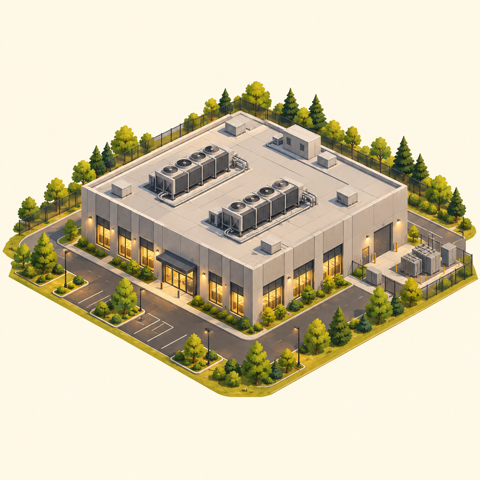
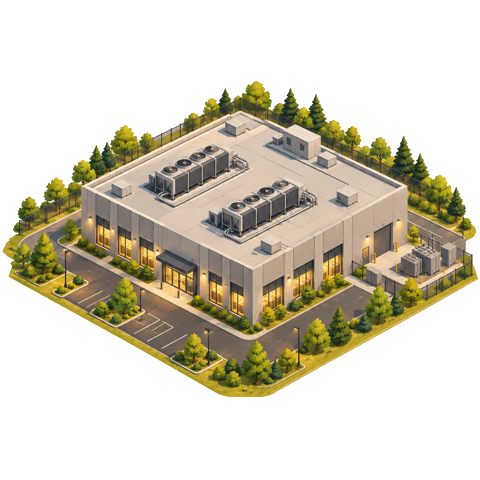
Unify campus ground and open decisions from scene objects

diff --git a/src/ui/board/MapPopover.tsx b/src/ui/board/MapPopover.tsx
@@ -1,7 +1,8 @@
-import { useEffect, useRef } from 'react';
+import { useEffect, useRef, useState } from 'react';
 
 import { formatMonth } from '../../engine/format';
 import { checkAction, useStore } from '../store';
+import { buildRows } from '../components/TracksPanel';
 import { Term } from '../Term';
 import { boardActionsForObject, boardObjectTagline, laydownOrders } from './actions';
 
@@ -24,6 +25,7 @@ interface MapPopoverProps {
 }
 
 const OBJECT_TITLES: Record<string, string> = {
+  road: 'Land & access road',
   substation: 'Substation',
   pond: 'Pond',
   siteOffice: 'Site office',
@@ -32,6 +34,7 @@ const OBJECT_TITLES: Record<string, string> = {
 };
 
 export function MapPopover({ objectId, left, top, onClose }: MapPopoverProps) {
+  const [officeView, setOfficeView] = useState<'permits' | 'money' | 'capital'>('permits');
   const state = useStore((s) => s.state);
   const content = useStore((s) => s.content);
   const plan = useStore((s) => s.plan);
@@ -76,7 +79,9 @@ export function MapPopover({ objectId, left, top, onClose }: MapPopoverProps) {
 
   const hall = state.halls.find((h) => h.id === objectId);
   const title = hall ? `${hall.id} (${hall.mwIT} MW)` : (OBJECT_TITLES[objectId] ?? objectId);
-  const rows = boardActionsForObject(objectId, state, content);
+  const rows = objectId === 'road' ? buildRows('land', state, content, null)
+    : objectId === 'siteOffice' && officeView !== 'permits' ? buildRows(officeView, state, content, null)
+    : boardActionsForObject(objectId, state, content);
   const tagline = boardObjectTagline(objectId, state);
   const orders = objectId === 'laydownYard' ? laydownOrders(state) : [];
 
@@ -106,8 +111,8 @@ export function MapPopover({ objectId, left, top, onClose }: MapPopoverProps) {
       >
         <div style={{ display: 'flex', justifyContent: 'space-between', alignItems: 'baseline', marginBottom: 4 }}>
           <strong>{title}</strong>
-          <button onClick={onClose} aria-label="Close" style={{ border: 'none', background: 'none', cursor: 'pointer', fontSize: '0.8rem' }}>
-            x
+          <button onClick={onClose} aria-label="Close" style={{ border: '1px solid #b9ab8e', borderRadius: 4, background: '#f4ead5', padding: '3px 8px', cursor: 'pointer', fontSize: '0.8rem' }}>
+            Close
           </button>
         </div>
         {showTeaching && (
@@ -118,6 +123,23 @@ export function MapPopover({ objectId, left, top, onClose }: MapPopoverProps) {
           </div>
         )}
 
+        {objectId === 'laydownYard' && (() => {
+          const row = buildRows('construction', state, content, null).find((r) => r.key === 'importCrews')!;
+          const check = checkAction(state, content, plan, row.action);
+          return <button data-testid="popover-action" disabled={!check.ok} title={check.ok ? row.help : check.reason} onClick={() => { queueAction(row.action); onClose(); }} style={{ width: '100%', padding: 6, marginBottom: 8 }}>{row.label} ({row.ap} AP, {row.cashLabel})</button>;
+        })()}
+        {objectId === 'siteOffice' && (
+          <div style={{ display: 'flex', gap: 4, marginBottom: 8, flexWrap: 'wrap' }}>
+            <button aria-pressed={officeView === 'permits'} onClick={() => setOfficeView('permits')}>Permits & people</button>
+            <button aria-pressed={officeView === 'money'} onClick={() => setOfficeView('money')}>Insurance & lender</button>
+            <button aria-pressed={officeView === 'capital'} onClick={() => setOfficeView('capital')}>Raise capital</button>
+          </div>
+        )}
+        {objectId === 'powerPlants' && (
+          <div style={{ marginBottom: 8 }}>
+            {state.power.plants.map((p) => <p key={p.id} style={{ margin: '4px 0' }}>Plant {p.id}: {p.onlineMonth !== null && p.onlineMonth <= state.month ? `online, ${p.mwGrid} MW` : p.plannedOnlineMonth !== null ? `${p.slipped ? 'delayed' : 'building'}, online ${formatMonth(p.onlineMonth ?? p.plannedOnlineMonth)}, ${p.mwGrid} MW` : 'waiting for the power docket to pass'}</p>)}
+          </div>
+        )}
         {objectId === 'laydownYard' ? (
           <>
             {/* Phase 7 (scarcity pack): the yard is a real constraint now - show the load. */}

diff --git a/src/ui/components/MapGrid.tsx b/src/ui/components/MapGrid.tsx
@@ -1,3 +1,4 @@
+import campusGroundImg from '../../assets/art/campus-ground.jpg';
 import { useEffect, useRef, useState, type CSSProperties, type KeyboardEvent } from 'react';
 
 import { formatMonth } from '../../engine/format';
@@ -32,7 +33,7 @@ function ArtLayer({ img, dimmed }: { img?: string; dimmed?: boolean }) {
         inset: 0,
         width: '100%',
         height: '100%',
-        objectFit: 'cover',
+        objectFit: 'contain',
         borderRadius: 4,
         pointerEvents: 'none',
         opacity: dimmed ? 0.4 : 1,
@@ -231,6 +232,7 @@ export function MapGrid() {
     <div
       ref={containerRef}
       data-testid="map-root"
+      data-campus-scene="true"
       data-ground={siteTheme.ground}
       style={{
         position: 'relative',
@@ -244,12 +246,12 @@ export function MapGrid() {
         boxSizing: 'border-box',
         fontFamily: 'sans-serif',
         fontSize: '0.75rem',
-        background: siteTheme.ground,
+        background: `url(${campusGroundImg}) center / cover, ${siteTheme.ground}`,
       }}
     >
       <BoardLegend />
       {/* Road: no popover (D1). Phase 4: the site's transmission poles queue at the road. */}
-      <div data-testid="map-road" style={{ gridColumn: '1 / 13', gridRow: '1 / 2', position: 'relative', background: TILE_ART.road.bg, ...cellStyle }}>
+      <div {...selectableCellProps(boardPopover === 'road', () => openObject('road', null))} ref={(el) => { if (el) cellRefs.current.set('road', el); }} data-testid="map-road" style={{ cursor: 'pointer', gridColumn: '1 / 13', gridRow: '1 / 2', position: 'relative', background: TILE_ART.road.bg, ...cellStyle }}>
         <ArtLayer img={TILE_ART.road.img} />
         <span style={ART_CHIP}>
           {TILE_ART.road.icon} {TILE_ART.road.label}
@@ -278,6 +280,7 @@ export function MapGrid() {
           position: 'relative',
           ...cellStyle,
         }}
+        data-scene-object="office"
         title="Site office"
       >
         <ArtLayer img={TILE_ART.siteOffice.img} />
@@ -294,6 +297,7 @@ export function MapGrid() {
         ref={(el) => {
           if (el) cellRefs.current.set('pond', el);
         }}
+        data-scene-object="field"
         data-testid="map-pond-slot"
         data-pond={siteTheme.pond ? 'true' : 'false'}
         style={{
@@ -349,6 +353,7 @@ export function MapGrid() {
               ref={(el) => {
                 if (el) cellRefs.current.set(hall.id, el);
               }}
+              data-scene-object="hall"
               className={arrivalFlash ? 'board-arrival-flash' : undefined}
               style={{
                 background: look.bg,
@@ -456,6 +461,7 @@ export function MapGrid() {
           justifyContent: 'flex-start',
           padding: 4,
         }}
+        data-scene-object="yard"
         title="Laydown yard"
       >
         <ArtLayer img={TILE_ART.laydownYard.img} />
@@ -543,6 +549,7 @@ export function MapGrid() {
           ...(substationEnergized && !reducedMotion ? { animation: 'boardGlowPulse 2.4s ease-in-out infinite' } : {}),
           ...cellStyle,
         }}
+        data-scene-object="substation"
         data-testid="map-substation"
         data-build-state={power.substationStatus}
         title="Substation"
@@ -580,6 +587,8 @@ export function MapGrid() {
         {...selectableCellProps(boardPopover === 'powerPlants', () => openObject('powerPlants', null))}
         ref={(el) => { if (el) cellRefs.current.set('powerPlants', el); }}
         style={{ cursor: 'pointer', gridColumn: '11 / 13', gridRow: '4 / 8', background: '#bcaaa4', ...cellStyle, justifyContent: 'flex-start', padding: 4 }}
+        data-scene-object="plants"
+        aria-label="Power plants"
         title="Power plants"
       >
         <div>{'\u{1F50C}'} Plants</div>

diff --git a/e2e/campus-first.spec.ts b/e2e/campus-first.spec.ts
@@ -7,9 +7,9 @@ test('desktop opens on one campus canvas with details on demand and End month pe
   await expect(page.getByTestId('status-drawer')).toHaveCount(0);
   const map = await page.getByTestId('map-root').boundingBox();
   expect(map!.width).toBeGreaterThan(1200); expect(map!.height).toBeGreaterThan(500);
-  await page.screenshot({ path: 'docs/screenshots/cold2/campus-1280.png' });
+  await page.screenshot({ path: 'docs/screenshots/cold2/scene-1280.png' });
   await page.setViewportSize({width:1440,height:900});
-  await page.screenshot({ path: 'docs/screenshots/cold2/campus-1440.png' });
+  await page.screenshot({ path: 'docs/screenshots/cold2/scene-1440.png' });
   await page.getByRole('button', { name: 'Show me', exact: true }).click();
   await expect(page.getByTestId('map-popover')).toBeVisible();
   await expect(page.getByTestId('popover-action').filter({hasText:'Commission the interconnection study'})).toBeVisible();
@@ -18,4 +18,23 @@ test('desktop opens on one campus canvas with details on demand and End month pe
   await closePanel(page); await openStatus(page); await expect(page.getByTestId('goal-strip')).toBeVisible();
   await closePanel(page); await page.getByRole('button',{name:'End month',exact:true}).click();
   await expect(page.getByTestId('campus-status')).toContainText('Y1 M2');
+});
+
+test('land, finance, crews and chips are reachable directly from campus objects', async ({ page }) => {
+  await page.goto('/'); await page.getByTestId('quick-start').click();
+  await page.getByTestId('map-road').click();
+  await expect(page.getByTestId('popover-action').filter({hasText:'Option the site'})).toBeVisible();
+  await page.getByTestId('map-popover').getByRole('button',{name:'Close',exact:true}).click();
+  await page.getByRole('button',{name:/Site office/}).click();
+  await expect(page.getByTestId('popover-action').filter({hasText:'Confirm the rack schedule'})).toBeVisible();
+  await page.getByRole('button',{name:'Insurance & lender',exact:true}).click();
+  await expect(page.getByTestId('popover-action').filter({hasText:'Cure'})).toBeVisible();
+  await page.getByRole('button',{name:'Raise capital',exact:true}).click();
+  await expect(page.getByTestId('popover-action').filter({hasText:/sponsor bridge/i})).toBeVisible();
+  await page.screenshot({path:'docs/screenshots/cold2/campus-finance.png'});
+  await page.keyboard.press('Escape');
+  await page.getByRole('button',{name:/Laydown yard/}).click();
+  await expect(page.getByTestId('popover-action').filter({hasText:/Import/})).toBeVisible();
+  await page.keyboard.press('Escape'); await page.getByRole('button',{name:'Power plants',exact:true}).click();
+  await expect(page.getByTestId('map-popover')).toContainText('waiting for the power docket');
 });

diff --git a/src/ui/board/boardStyles.tsx b/src/ui/board/boardStyles.tsx
@@ -11,6 +11,22 @@ import { useEffect, useState } from 'react';
 export function BoardStyles() {
   return (
     <style>{`
+      [data-campus-scene] [data-scene-object] {
+        background: transparent !important;
+        border: none !important;
+        overflow: visible !important;
+      }
+      [data-campus-scene] [data-scene-object][aria-pressed="true"] {
+        outline: 2px dashed #345e49;
+        outline-offset: -5px;
+        border-radius: 18px;
+      }
+      [data-campus-scene] [data-scene-object] > img { filter: drop-shadow(0 8px 4px #4a3b252a); }
+      [data-campus-scene] [data-testid="map-road"] { background: transparent !important; }
+      [data-campus-scene] [data-testid="map-road"] > img { display: none; }
+      [data-campus-scene] [data-testid^="plant-buildout-"] { background: transparent !important; border: none !important; }
+      [data-campus-scene] [data-testid^="plant-buildout-"] > div:first-child { border: none !important; }
+
       @keyframes boardGlowPulse {
         0%, 100% { box-shadow: 0 0 4px 1px rgba(255, 200, 60, 0.55); }
         50% { box-shadow: 0 0 12px 4px rgba(255, 200, 60, 0.95); }

diff --git a/src/ui/board/HallSprite.tsx b/src/ui/board/HallSprite.tsx
@@ -35,7 +35,7 @@ export function HallSprite({ visual, late, failedInspection, queuedGhost, rent, 
   return (
     <div style={{ position: 'relative', width: '100%', height: '100%' }}>
       {/* pictorial layer: the stage illustration over its warm fallback color */}
-      <div style={{ position: 'absolute', inset: 0, background: look?.bg, borderRadius: 6, overflow: 'hidden' }} aria-hidden="true">
+      <div style={{ position: 'absolute', inset: 0, background: 'transparent', borderRadius: 6, overflow: 'hidden' }} aria-hidden="true">
         {look?.img && (
           <img
             src={look.img}
@@ -43,7 +43,7 @@ export function HallSprite({ visual, late, failedInspection, queuedGhost, rent, 
             style={{
               width: '100%',
               height: '100%',
-              objectFit: 'cover',
+              objectFit: 'contain',
               display: 'block',
               opacity: visual.flags.terminated ? 0.45 : 1,
               filter: visual.flags.terminated ? 'grayscale(0.6)' : undefined,

diff --git a/e2e/art2.spec.ts b/e2e/art2.spec.ts
@@ -4,7 +4,8 @@ test('illustrated access road keeps its label and transmission clues visible', a
   await page.goto('/');
   await page.getByTestId('quick-start').click();
   const road = page.getByTestId('map-road');
-  await expect(road.locator('img')).toBeVisible();
+  await expect(page.getByTestId('map-root')).toHaveAttribute('data-campus-scene', 'true');
+  await expect(road.locator('img')).toBeHidden(); // Access road is now part of the shared ground illustration.
   await expect(road).toContainText('Road');
   await page.screenshot({ path: 'docs/screenshots/cold2/art-road.png' });
 });

diff --git a/src/ui/board/actions.ts b/src/ui/board/actions.ts
@@ -226,6 +226,7 @@ export function boardActionsForObject(objectId: string, state: GameState, conten
 
   if (objectId === 'siteOffice') {
     const rows: ActionRow[] = [
+      row(content, state, 'confirmRackSchedule', findDef(content, 'confirmRackSchedule').label),
       row(content, state, 'filePermit', 'File air permit', { permitId: 'air' }),
       row(content, state, 'filePermit', 'File building permit', { permitId: 'building' }),
       row(content, state, 'filePermit', 'File water permit', { permitId: 'water' }),

diff --git a/CHECKPOINT.md b/CHECKPOINT.md
@@ -960,3 +960,22 @@ clickable too. No new game rules or saved-state fields.
 | visual | done: docs/screenshots/cold2/campus-1280.png and campus-1440.png inspected |
 | balance grid | skipped: UI composition/navigation only |
 | remaining staged work | remove legacy tabs from fallback and finish object-specific finance/cast routes; do not claim the fallback is already gone |
+
+# Campus-first stage 2 - one continuous scene and object routes
+
+Removed the separate tile-card frames and backgrounds. The whole campus now sits
+on one illustrated ground plane; edge-connected pale margins were removed from
+the existing object artwork so each object sits directly in that landscape.
+Road opens land actions, office opens permits/people, insurance/lender or capital,
+yard offers crews, office offers rack confirmation, and plants expose their dates
+and MW. All actions remains a temporary safety net until stage 3. Close buttons
+now have visible chrome. Existing hall placement routes remain intact.
+
+| criterion | status |
+|---|---|
+| continuous scene | done: no card backgrounds/borders, one shared ground plane |
+| direct routes | done: real click e2e for land, money/capital, crews, racks and plant status |
+| visual | done: 1280x720 and 1440x900 scene plus finance popover inspected |
+| full gates | done: 512 vitest, 58 e2e (29+28 shards + long tutorial), lint, tsc, build |
+| balance grid | skipped: art/UI routes only, engine unchanged |
+| staged remainder | legacy fallback tabs, cast figures, stronger hall growth and in-scene events |
